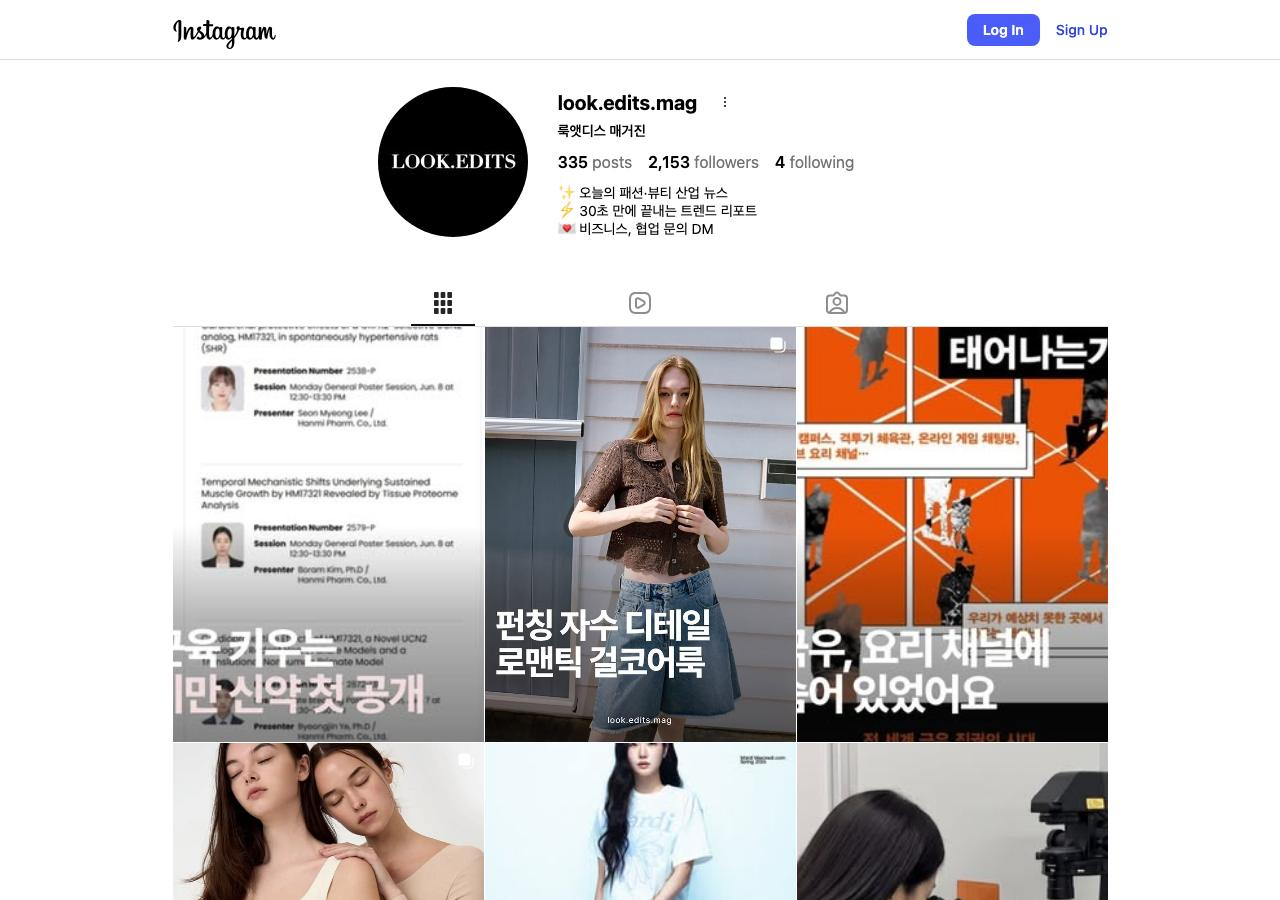
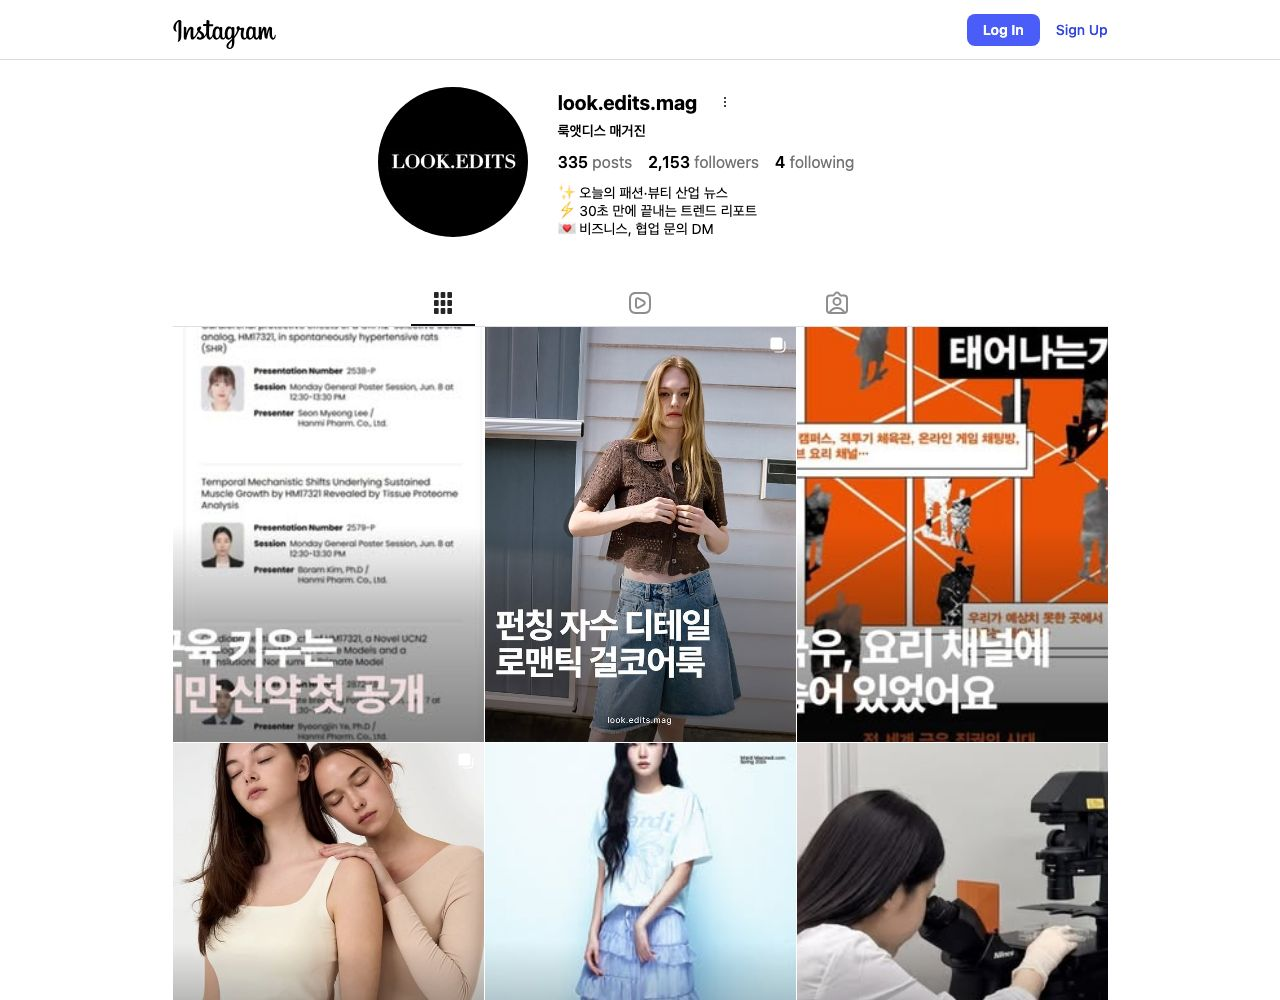
tweak: revert hero label/intro to prior versions, +2px tagline, rename card project, new cardnews grid image
- 히어로 라벨 영어(AI · Full-Stack Developer)로 복귀
- 인트로 문단 깔끔한 한글 번역본으로 복귀
- 히어로 태그라인 +2px (calc(...+2px))
- 프로젝트 'AI 카드뉴스 CMS' → 'AI 카드뉴스 생성'
- cardnews 이미지: look.edits.mag 인스타 그리드(모달/백드롭 제거)로 교체

diff --git a/index.html b/index.html
@@ -143,10 +143,10 @@
       <div class="absolute inset-0 bg-black/20"></div>
 
       <div id="hero-copy" class="relative h-full flex flex-col items-center justify-center text-center text-white px-6">
-        <div class="label text-white/80 mb-6" style="color:rgba(255,255,255,0.8); letter-spacing:0.18em">신입 AI · 풀스택 개발자입니다</div>
+        <div class="label text-white/80 mb-6" style="color:rgba(255,255,255,0.8)">AI · Full-Stack Developer</div>
         <h1 class="font-display text-white tracking-[0.03em] leading-[0.95]">
-          <span class="block font-300 text-[5.5vw] md:text-[3.2vw] tracking-[0.06em]">A new strategy for the AI era,</span>
-          <span class="block font-300 text-[5.5vw] md:text-[3.2vw] tracking-[0.06em]">42M+ global reach, engineered.</span>
+          <span class="block font-300 text-[calc(5.5vw_+_2px)] md:text-[calc(3.2vw_+_2px)] tracking-[0.06em]">A new strategy for the AI era,</span>
+          <span class="block font-300 text-[calc(5.5vw_+_2px)] md:text-[calc(3.2vw_+_2px)] tracking-[0.06em]">42M+ global reach, engineered.</span>
         </h1>
       </div>
 
@@ -180,7 +180,7 @@
           <div class="max-w-md reveal">
             <div class="w-12 h-px bg-ink mb-6"></div>
             <p class="font-kr text-base md:text-lg leading-relaxed text-ink/75">
-              새로운 AI 도구가 나오면 일단 직접 써봐야 직성이 풀립니다. 기능을 익히는 데서 멈추지 않고 '이걸로 뭘 만들 수 있을까'를 계속 붙잡고 있는 편이에요. 그렇게 떠오른 아이디어를 데이터 수집부터 눈에 보이는 화면까지 직접 만들어 실제로 굴려보는 걸 좋아합니다. 기술이 빠르게 바뀌는 만큼, 그 변화를 쫓아가는 게 즐거운 신입 개발자입니다.
+              빠르게 변하는 분야의 속도에 맞춰 함께 달리는 신입 개발자입니다. 새로운 스택을 끊임없이 익히고, 데이터 파이프라인과 모델부터 사용자가 실제로 마주하는 인터페이스까지 — 시스템 전체를 직접 만들어 출시합니다.
             </p>
             <div class="label mt-6">Heo Yugyeong / AI · Full-Stack Developer</div>
           </div>
@@ -345,7 +345,7 @@
         link: 'https://en.sedaily.com/key',
       },
       {
-        no: '03', title: 'AI 카드뉴스 CMS', kr: '영문 기사 → 한글 인스타 카드뉴스 자동 변환',
+        no: '03', title: 'AI 카드뉴스 생성', kr: '영문 기사 → 한글 인스타 카드뉴스 자동 변환',
         role: 'Full-Stack · AI 프롬프트 · 인프라 (단독)', year: '2026',
         tags: ['Next.js 15', 'Bedrock', 'satori', 'resvg'],
         summary: '영문 기사 URL을 한글 인스타그램 카드뉴스로 자동 변환하는 풀스택 CMS. 데이터 수집부터 비주얼·카피라이팅까지 전 과정 자동화.',